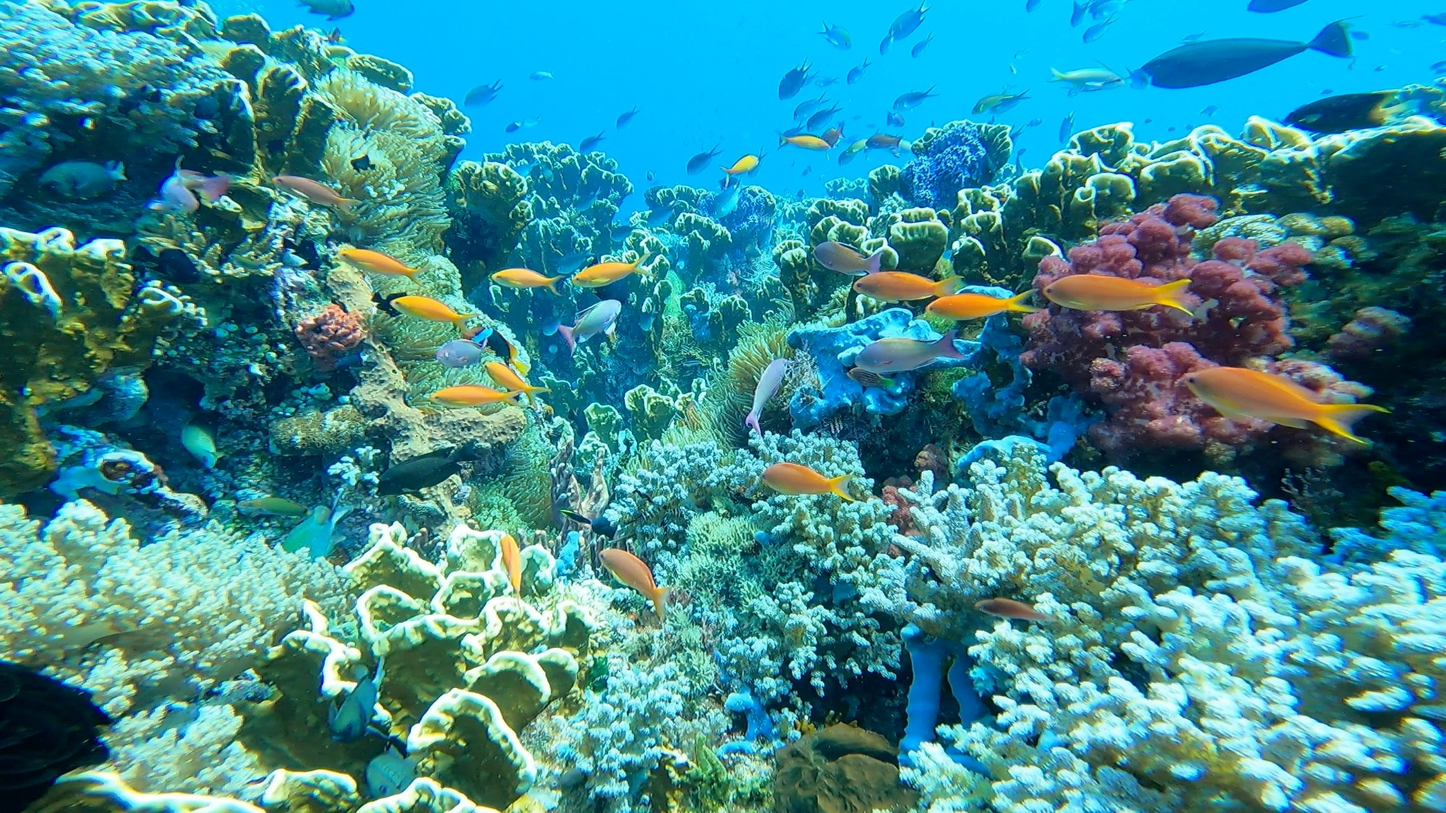
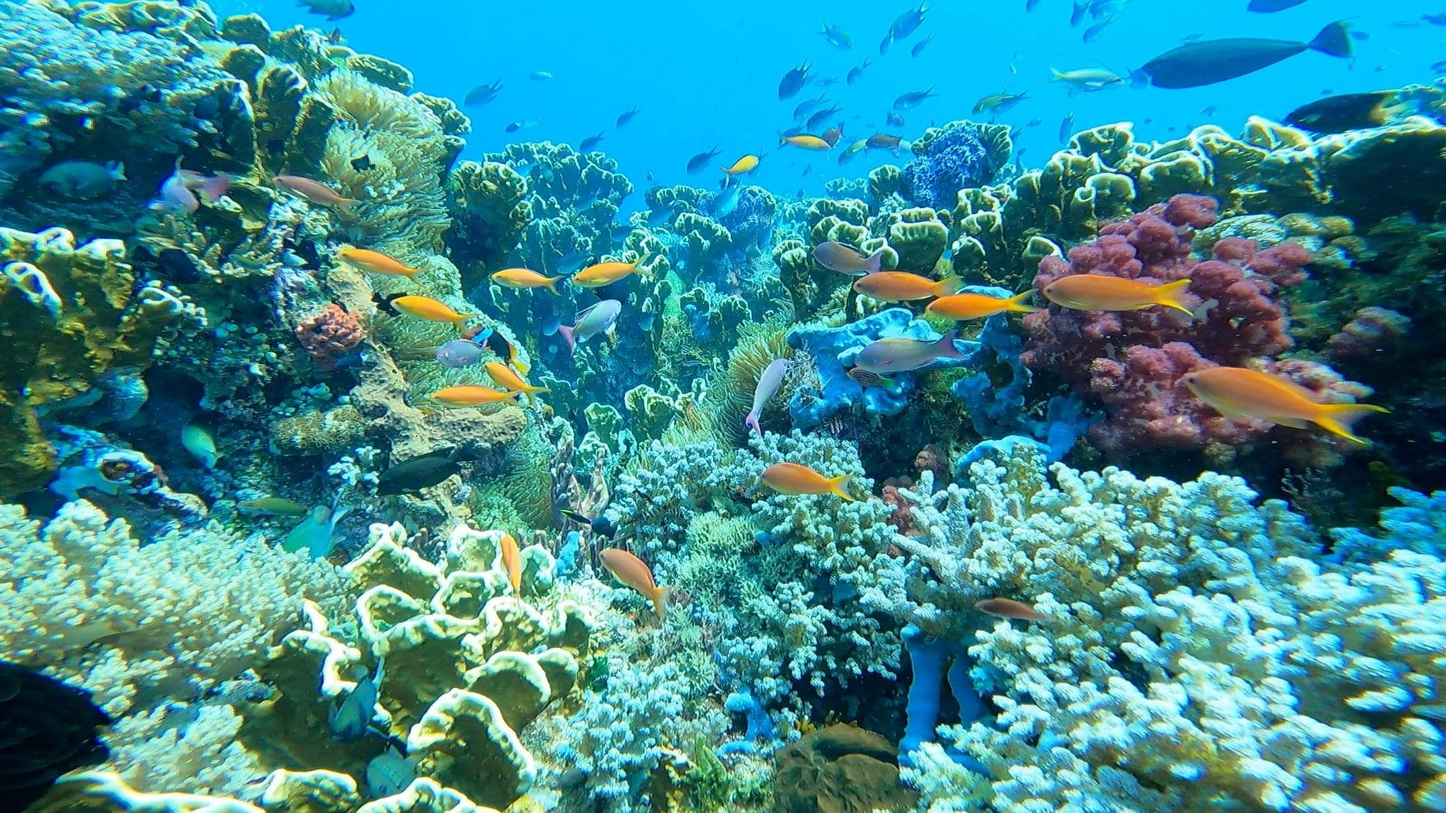
Add Bing verification structure, compress oversized images
- Add commented-out Bing Webmaster Tools verification placeholder in layout.tsx
- Compress founder-headshot.jpg (892KB → 358KB), hero-2-coral.jpg (642KB → 390KB), dest-raja-ampat.jpg (562KB → 368KB)

diff --git a/src/app/layout.tsx b/src/app/layout.tsx
@@ -80,6 +80,10 @@ export const metadata: Metadata = {
   },
   verification: {
     google: "AKiUau91FXJ-0rWV6roMTd9zOLVlXHv84-6mxPqvEZI",
+    // TODO: Add Bing Webmaster Tools verification code from bing.com/webmasters
+    // other: {
+    //   'msvalidate.01': 'REAL_CODE_HERE',
+    // },
   },
   icons: {
     icon: [
